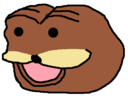
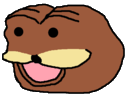
Remove white background from spurdo

diff --git a/resources/views/index.blade.php b/resources/views/index.blade.php
@@ -8,7 +8,7 @@
     <meta name="author" content="Lee Watson">
     <meta name="description" content="wat de fugg">
     <meta name="keywords" content="spurdo">
-    <link rel="shortcut icon" href="{{ url('assets/img/favicon.png') }}" type="image/png">
+    <link rel="shortcut icon" href="{{ url('assets/img/spurdo.png') }}" type="image/png">
     <link rel="stylesheet" href="{{ url('assets/css/style.css') }}">
 </head>
 <body>
